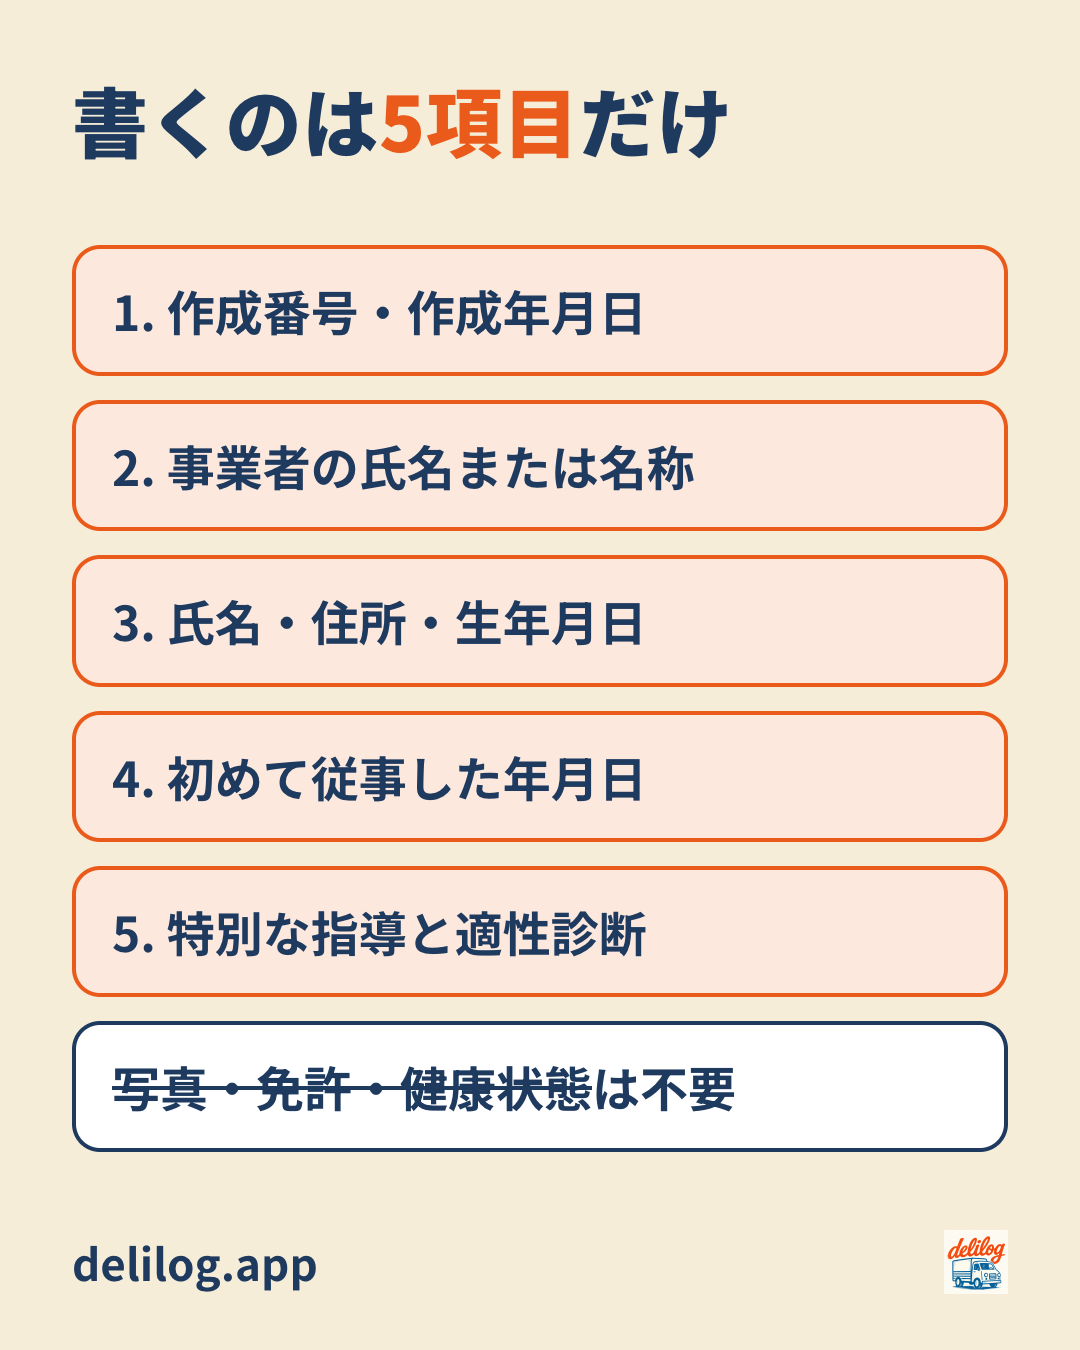
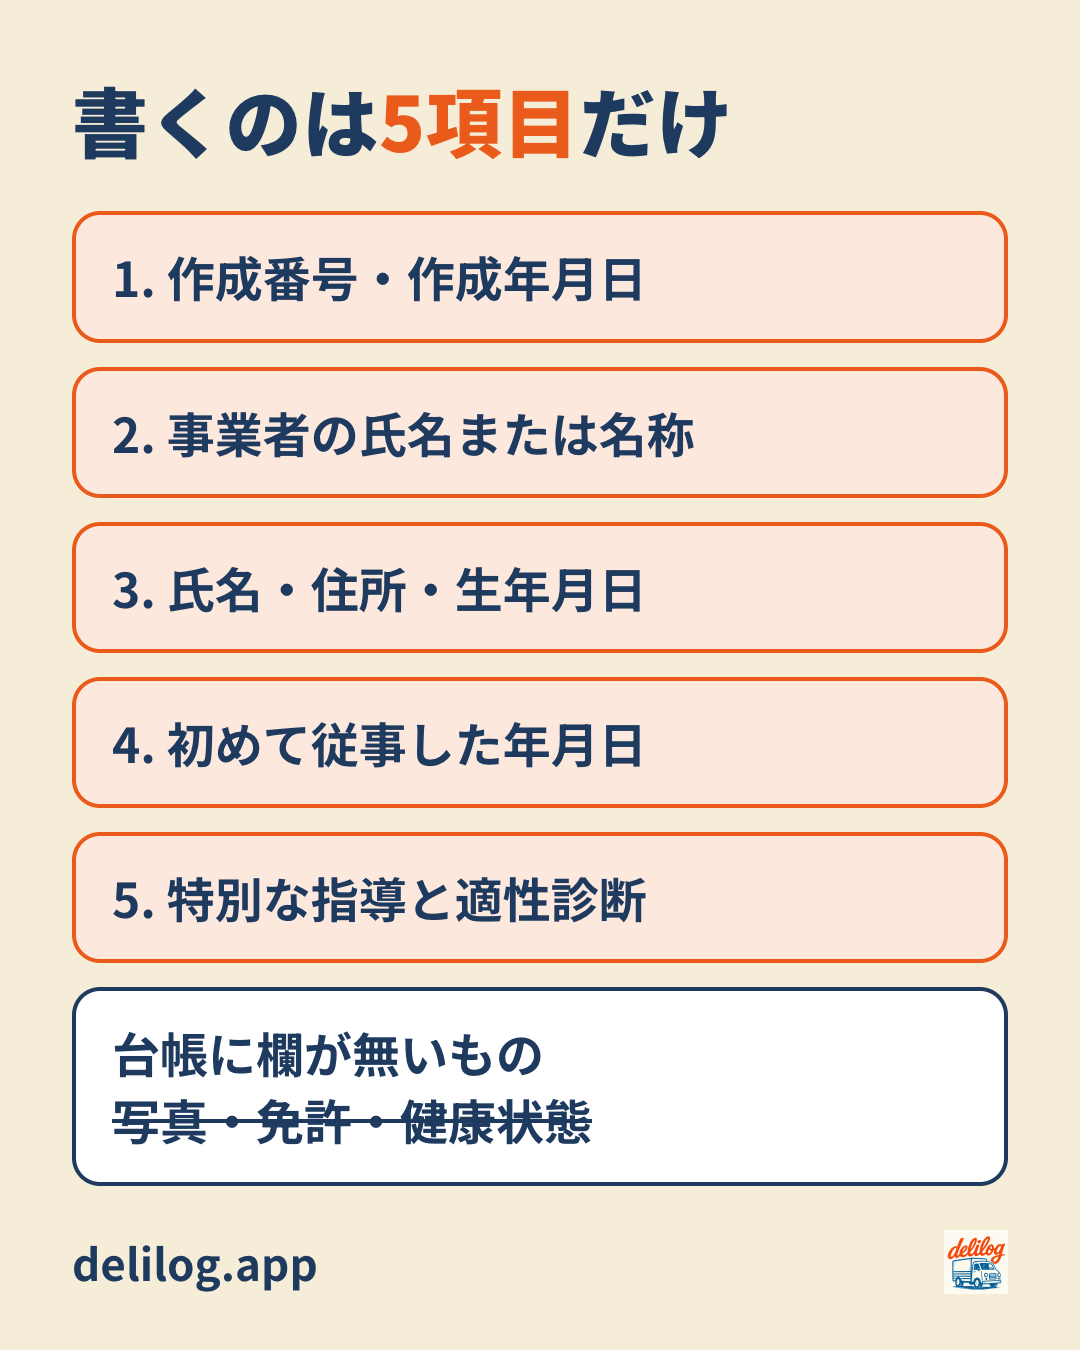
feat: ブログ記事「軽貨物の運転者等台帳テンプレ」を追加（2026-11-20 公開予定）
- content/blog/untensha-daichou-template.md（本文 5,088字・図 2 枚・CTA 2 枚＋DL ボックス）
- テンプレ実物: public/blog/untensha-daichou-template/ の PDF（空欄＋記入例・QR 付き）と Excel（2シート）。元の HTML は content/figures/untensha-daichou-template/_daichou-template.htm
- 図と OG は content/figures/untensha-daichou-template/ から書き出し
- 既存記事 2 本（keikamotsu-kiroku-hozon-kikan・keikamotsu-anzentaisaku-2025）からリンク
- 根拠は貨物自動車運送事業輸送安全規則 第9条の6・第10条第2項、解釈通達、国交省 FAQ・リーフレット
- ファクトチェックで外した主張: 1 件（1人親方は経営届出書の営業所に備える）、誤解パターン M070〜M072 を追加

Changed region(s): [[0.0611, 0.1556, 0.9472, 0.9022]]

diff --git a/content/figures/untensha-daichou-template/structure.html b/content/figures/untensha-daichou-template/structure.html
@@ -5,6 +5,6 @@
   <div class="fig-card is-accent" data-item>3. 氏名・住所・生年月日</div>
   <div class="fig-card is-accent" data-item>4. 初めて従事した年月日</div>
   <div class="fig-card is-accent" data-item>5. 特別な指導と適性診断</div>
-  <div class="fig-card" data-item><s>写真・免許・健康状態</s>は不要</div>
+  <div class="fig-card" data-item>台帳に欄が無いもの<br><s>写真・免許・健康状態</s></div>
 </div>
 <div class="fig-footer"><span>delilog.app</span><img src="/app_icon.png" alt=""></div>

diff --git a/docs/plans/blog-untensha-daichou-template.md b/docs/plans/blog-untensha-daichou-template.md
@@ -4,7 +4,7 @@
 ブランチ: blog/untensha-daichou-template
 WORKTREE: /Users/narajunichi/delilog-website/.claude/worktrees/blog-untensha-daichou-template
 公開日: 2026-11-20（種類: 新規）
-状態: 実行中
+状態: 完了
 
 ## 検証コマンド
 
@@ -22,8 +22,8 @@ WORKTREE: /Users/narajunichi/delilog-website/.claude/worktrees/blog-untensha-dai
 - [x] T2: プロダクト整合性 — 04-consistency.md
 - [x] T3: 執筆 — content/blog/untensha-daichou-template.md・配布ファイル（PDF・Excel）と content/blog-short-ids.json の1行（daichou-tpl）。blog:stats が OK
 - [x] T4: 図と OG — content/figures/untensha-daichou-template/。blog:figures が OK
-- [ ] T5: 最終レビュー — 06-review.md。5つの検証コマンドがすべて OK、スマホのスクショを目で確認
-- [ ] T6: 公開準備 — 相互リンク（既存2〜3本の「あわせて読みたい」）、blog/untensha-daichou-template を push、PR（publish:2026-11-20）、プレビュー URL を取得。BLOG_SCHEDULE・BLOG_BACKLOG は触らない
+- [x] T5: 最終レビュー — 06-review.md。5つの検証コマンドがすべて OK、スマホのスクショを目で確認
+- [x] T6: 公開準備 — 相互リンク（既存2〜3本の「あわせて読みたい」）、blog/untensha-daichou-template を push、PR（publish:2026-11-20）、プレビュー URL を取得。BLOG_SCHEDULE・BLOG_BACKLOG は触らない
 
 ## 実行ログ
 
@@ -33,6 +33,8 @@ WORKTREE: /Users/narajunichi/delilog-website/.claude/worktrees/blog-untensha-dai
 | T2 | (このコミット) | 重大8件を構成書に反映 |
 | T3 | (このコミット) | 本文 5,088字。短い ID daichou-tpl。配布ファイルは T4 のコミットに含める |
 | T4 | (このコミット) | 図2枚＋OG。blog:figures OK。配布ファイル PDF（空欄＋記入例）・xlsx（2シート）と元の HTML（_daichou-template.htm） |
+| T5 | (このコミット) | 5つの検証 OK。図 structure の文言を「台帳に欄が無いもの」に修正 |
+| T6 | (このコミット) | 相互リンク2本（keikamotsu-kiroku-hozon-kikan の台帳の節・keikamotsu-anzentaisaku-2025 のシリーズ一覧）。表の「詳しい記事」列は 11/24 の指導・監督の記事の PR でまとめて直す（隣の行とぶつかるため） |
 
 ## 失敗カウンタ
 
@@ -44,3 +46,5 @@ WORKTREE: /Users/narajunichi/delilog-website/.claude/worktrees/blog-untensha-dai
 - ファクトチェック: 外した主張「1人親方は経営届出書で届け出た営業所に備える」。書き換え: 保存3年の根拠は第9条の6第2項（起算日は書かない）・特別な指導は台帳に記録、適性診断の結果は添付・経過措置は届出済み事業者の初任運転者のみ2028年3月まで・電磁的保存の根拠は解釈通達とFAQ・「免許証の欄」→「運転免許に関する事項」
 - 新しい誤解: M070〜M072
 - 公開後の作業（サイト側・予約公開では入れられない）: CLAUDE.md の QR 読み取り元の一覧に template_daichou / template_daichou_xlsx を足す
+- 人の判断が要る点: アプリ（~/delilog）の運転者等台帳 PDF の見出しが「第9条の5」になっている。一次資料では軽貨物の台帳は第9条の6（第9条の5は一般貨物自動車運送事業者等の台帳）。アプリ側の修正を推奨
+- ぶつかりうるファイル: なし

diff --git a/content/blog/keikamotsu-anzentaisaku-2025.md b/content/blog/keikamotsu-anzentaisaku-2025.md
@@ -434,6 +434,7 @@ delilog なら、点呼記録・日常点検・指導・監督の記録は無料
 - [点呼記録簿テンプレート【無料DL】国交省準拠PDF版と記入例｜軽貨物1人親方向け](/blog/tenko-kirokubo-template) — 7行型・10行型のPDF雛形と17列の意味解説
 - [軽貨物「事故の記録」の書き方｜8項目の記入例とテンプレ（PDF・Excel無料DL）【2026年版】](/blog/jiko-houkokusho-template) — 事故の記録8項目の書き方と、PDF・Excelの無料テンプレ
 - [軽貨物の事故の記録「再発防止対策」の書き方｜事故パターン別の例文5つ【2026年版】](/blog/jiko-saihatsu-boushi-reibun) — 再発防止対策の書き方と事故パターン別の例文
+- [軽貨物の運転者等台帳テンプレ｜1人親方の5項目と記入例（PDF・Excel無料DL）【2026年版】](/blog/untensha-daichou-template) — 運転者等台帳の5項目と記入例、PDF・Excelの無料テンプレ
 - [軽貨物で残す記録は6種類｜保存期間1年・2年・3年の一覧](/blog/keikamotsu-kiroku-hozon-kikan) — 残す記録と保存期間の一覧
 - [軽貨物ドライバーの働き方｜業務形態3類型徹底比較【2026年版】](/blog/keikamotsu-hatarakikata)
 - [軽貨物ドライバーの実態統計｜年代・地域・年収・労働時間データ【2026年版】](/blog/keikamotsu-jittai-toukei)

diff --git a/content/blog/keikamotsu-kiroku-hozon-kikan.md b/content/blog/keikamotsu-kiroku-hozon-kikan.md
@@ -132,6 +132,8 @@ delilog アプリなら、点呼・日常点検は無料です。
 
 緑ナンバーの台帳と違い、写真や免許証・健康状態の欄はありません。運転者でなくなったら、すぐにその年月日と理由を書き、3年保存します。
 
+書き方と1人親方の記入例、PDF・Excel のテンプレートは「[軽貨物の運転者等台帳テンプレ｜1人親方の5項目と記入例（PDF・Excel無料DL）【2026年版】](/blog/untensha-daichou-template)」にまとめています。
+
 5つ目の「特別な指導」と「適性診断」は、次の人が対象です（同 第10条第2項）。
 
 - 初めて事業用自動車に乗務する人

diff --git a/content/blog/untensha-daichou-template.md b/content/blog/untensha-daichou-template.md
@@ -82,7 +82,7 @@ ctaBody: "ドライバー手帳は無料プランで使えます（予定3件ま
 
 台帳に書くのは、第9条の6第1項が挙げる次の5項目です。条文どおりの言葉で、1つずつ見ていきましょう。
 
-![軽貨物の運転者等台帳は、書く5項目だけで、写真や健康状態の欄は要らない](/blog/untensha-daichou-template/structure.png)
+![軽貨物の運転者等台帳は、書く欄が5項目だけで、写真・免許・健康状態の欄は無い](/blog/untensha-daichou-template/structure.png)
 
 | 項目 | 何を書くか | 書くタイミング |
 |------|-----------|--------------|
